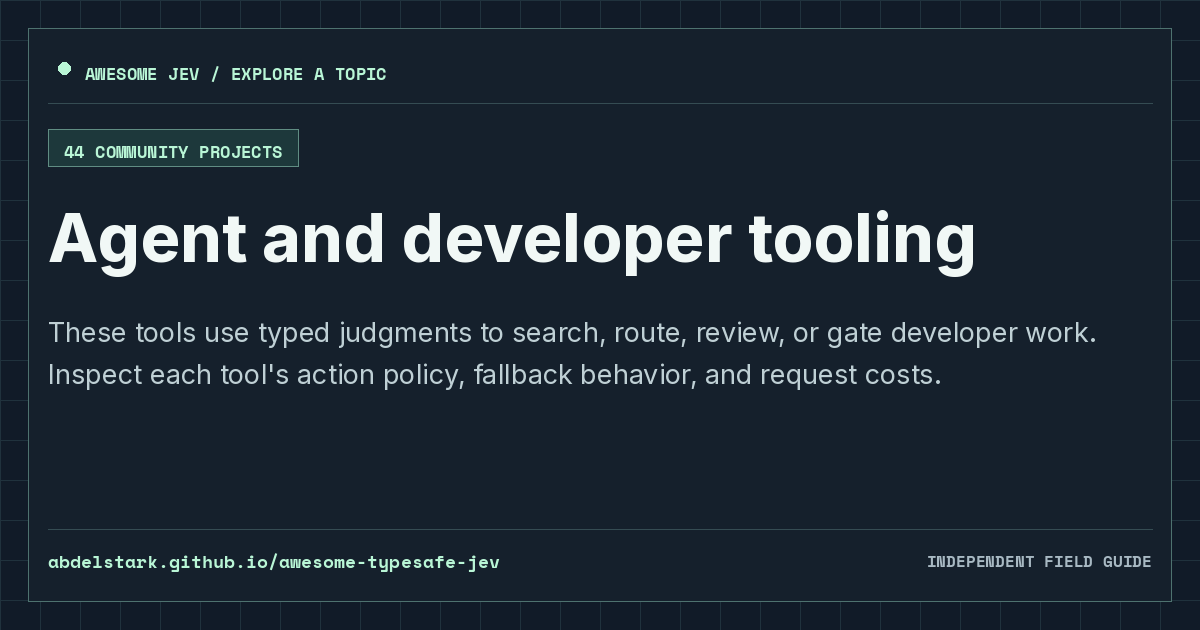
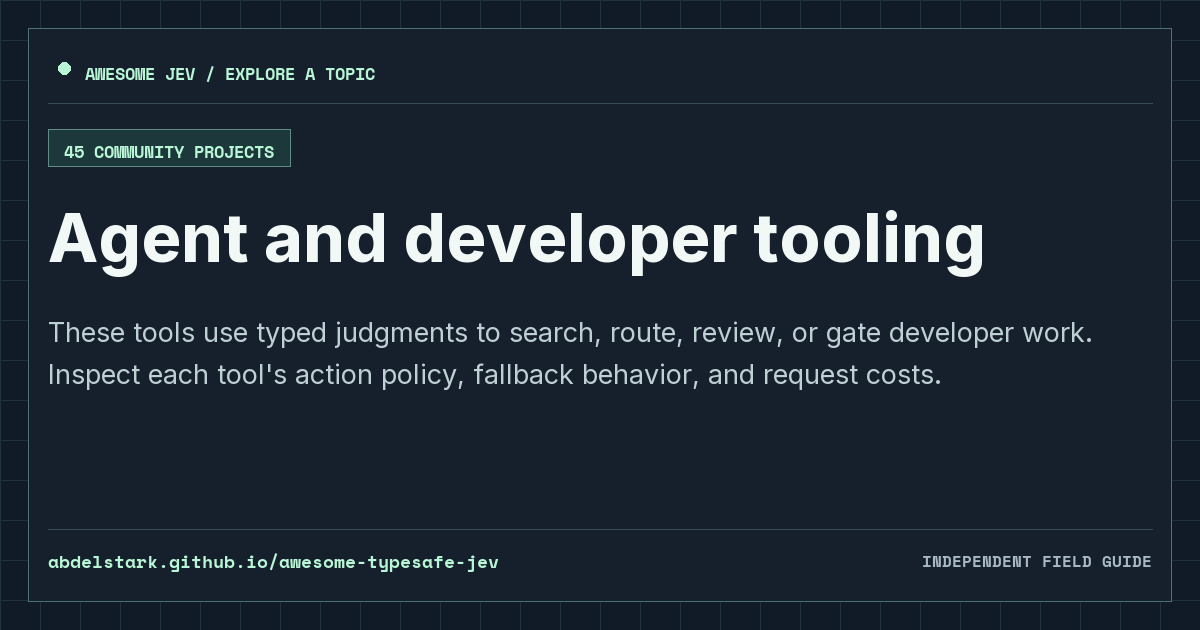
Add jevgrep (allebee)

diff --git a/categories/agent-and-developer-tooling.html b/categories/agent-and-developer-tooling.html
@@ -152,6 +152,11 @@ resources:
     description: "Experimental Python framework that uses Jev to choose Android actions from accessibility trees and executes them through ADB or UIAutomator2, with explicit action permissions and per-run budgets; goals and visible UI text are sent to the selected TypeSafe or Vercel provider."
     permalink: "/projects/gh-antiyro-jevdroid/"
     image: "/assets/cards/gh-antiyro-jevdroid.png"
+  - name: "jevgrep (allebee)"
+    url: "https://github.com/allebee/jevgrep"
+    description: "Streaming grep-by-meaning CLI that asks Jev one Noul per line of a log or other text stream, including tail -f output, and prints lines at or above a threshold; the repository includes a hand-labelled benchmark against Claude, and every judged line is sent to OpenRouter or TypeSafe."
+    permalink: "/projects/gh-allebee-jevgrep/"
+    image: "/assets/cards/gh-allebee-jevgrep.png"
   - name: "Jevonian"
     url: "https://github.com/xinyao27/jevonian"
     description: "Experimental local proxy for coding agents using OpenAI, Anthropic, or Responses-compatible APIs. The jevonian/auto route asks Jev to choose a model and thinking level after deterministic compatibility and quota filters; explicit routes skip Jev. The ledger records the serving model, route reason, token usage, and estimated cost. Jev receives recent messages and tool results, and the optional fullPrompt setting can send the whole conversation. Low confidence is flagged rather than automatically rerouted; costs and cache savings are estimates."

diff --git a/projects/gh-allebee-jevgrep.html b/projects/gh-allebee-jevgrep.html
@@ -1,0 +1,20 @@
+---
+layout: "resource"
+title: "jevgrep (allebee) | Awesome Jev"
+description: "Streaming grep-by-meaning CLI that asks Jev one Noul per line of a log or other text stream, including tail -f output, and prints lines at or above a threshold; the repository includes a hand-labelled benchmark against Claude, and every judged line is sent to OpenRouter or TypeSafe."
+permalink: "/projects/gh-allebee-jevgrep/"
+resource_name: "jevgrep (allebee)"
+resource_slug: "gh-allebee-jevgrep"
+resource_url: "https://github.com/allebee/jevgrep"
+description_markdown: "Streaming grep-by-meaning CLI that asks Jev one Noul per line of a log or other text stream, including `tail -f` output, and prints lines at or above a threshold; the repository includes a hand-labelled benchmark against Claude, and every judged line is sent to OpenRouter or TypeSafe."
+category_name: "Agent and developer tooling"
+category_id: "agent-and-developer-tooling"
+social_image: "/assets/cards/gh-allebee-jevgrep.png"
+related:
+  - name: "JevDroid"
+    permalink: "/projects/gh-antiyro-jevdroid/"
+  - name: "Jevonian"
+    permalink: "/projects/gh-xinyao27-jevonian/"
+  - name: "jgrep"
+    permalink: "/projects/gh-kyu1204-jgrep/"
+---

diff --git a/projects/gh-xinyao27-jevonian.html b/projects/gh-xinyao27-jevonian.html
@@ -11,8 +11,8 @@ category_name: "Agent and developer tooling"
 category_id: "agent-and-developer-tooling"
 social_image: "/assets/cards/gh-xinyao27-jevonian.png"
 related:
-  - name: "JevDroid"
-    permalink: "/projects/gh-antiyro-jevdroid/"
+  - name: "jevgrep (allebee)"
+    permalink: "/projects/gh-allebee-jevgrep/"
   - name: "jgrep"
     permalink: "/projects/gh-kyu1204-jgrep/"
   - name: "Mobile Jev"

diff --git a/projects/gh-antiyro-jevdroid.html b/projects/gh-antiyro-jevdroid.html
@@ -13,8 +13,8 @@ social_image: "/assets/cards/gh-antiyro-jevdroid.png"
 related:
   - name: "jevcal"
     permalink: "/projects/gh-abhixhek-jevcal/"
+  - name: "jevgrep (allebee)"
+    permalink: "/projects/gh-allebee-jevgrep/"
   - name: "Jevonian"
     permalink: "/projects/gh-xinyao27-jevonian/"
-  - name: "jgrep"
-    permalink: "/projects/gh-kyu1204-jgrep/"
 ---

diff --git a/projects/gh-abhixhek-jevcal.html b/projects/gh-abhixhek-jevcal.html
@@ -15,6 +15,6 @@ related:
     permalink: "/projects/gh-valentynkit-jev-nvim/"
   - name: "JevDroid"
     permalink: "/projects/gh-antiyro-jevdroid/"
-  - name: "Jevonian"
-    permalink: "/projects/gh-xinyao27-jevonian/"
+  - name: "jevgrep (allebee)"
+    permalink: "/projects/gh-allebee-jevgrep/"
 ---

diff --git a/README.md b/README.md
@@ -288,6 +288,7 @@ These tools use typed judgments to search, route, review, or gate developer work
 - [jev.nvim](https://github.com/valentynkit/jev.nvim) — Neovim plugin that splits the buffer into functions with Treesitter, scores each against a plain-language question with Jev, and ranks answers by probability in the quickfix window.
 - [jevcal](https://github.com/abhixhek/jevcal) — CLI that fits a per-question confidence threshold to a target accuracy on your own labeled data, verifies it on a held-out split, estimates how much traffic still needs a fallback model, and re-checks the locked thresholds in CI; publishes no Jev results of its own, and thresholds fitted on fewer than about 100 labeled rows should not be trusted.
 - [JevDroid](https://github.com/antiyro/jevdroid) — Experimental Python framework that uses Jev to choose Android actions from accessibility trees and executes them through ADB or UIAutomator2, with explicit action permissions and per-run budgets; goals and visible UI text are sent to the selected TypeSafe or Vercel provider.
+- [jevgrep (allebee)](https://github.com/allebee/jevgrep) — Streaming grep-by-meaning CLI that asks Jev one Noul per line of a log or other text stream, including `tail -f` output, and prints lines at or above a threshold; the repository includes a hand-labelled benchmark against Claude, and every judged line is sent to OpenRouter or TypeSafe.
 - [Jevonian](https://github.com/xinyao27/jevonian) — Experimental local proxy for coding agents using OpenAI, Anthropic, or Responses-compatible APIs. The `jevonian/auto` route asks Jev to choose a model and thinking level after deterministic compatibility and quota filters; explicit routes skip Jev. The ledger records the serving model, route reason, token usage, and estimated cost. Jev receives recent messages and tool results, and the optional `fullPrompt` setting can send the whole conversation. Low confidence is flagged rather than automatically rerouted; costs and cache savings are estimates.
 - [jgrep](https://github.com/kyu1204/jgrep) — Semantic grep CLI (`npm install -g jevgrep`) that splits files or git diff hunks into 5–60 line chunks, packs several chunks into one request with a Noul question per chunk, and prints `file:line` hits above a probability threshold with grep-style exit codes, so a diff can be linted in CI against rules written in English; ships an interactive `jgrep init` and an opt-in Claude Code and Codex skill; chunks are judged in isolation so cross-file questions do not match, and every chunk's text is sent to TypeSafe's API.
 - [Mobile Jev](https://github.com/droidrun/mobile-jev) — Local Android agent and studio using Mobilerun: Jev selects operations and observed targets, code rejects stale actions, and the included dark-theme demo checks the resulting switch; it needs a device plus Mobilerun and TypeSafe keys, while CI tests do not control a live phone.
